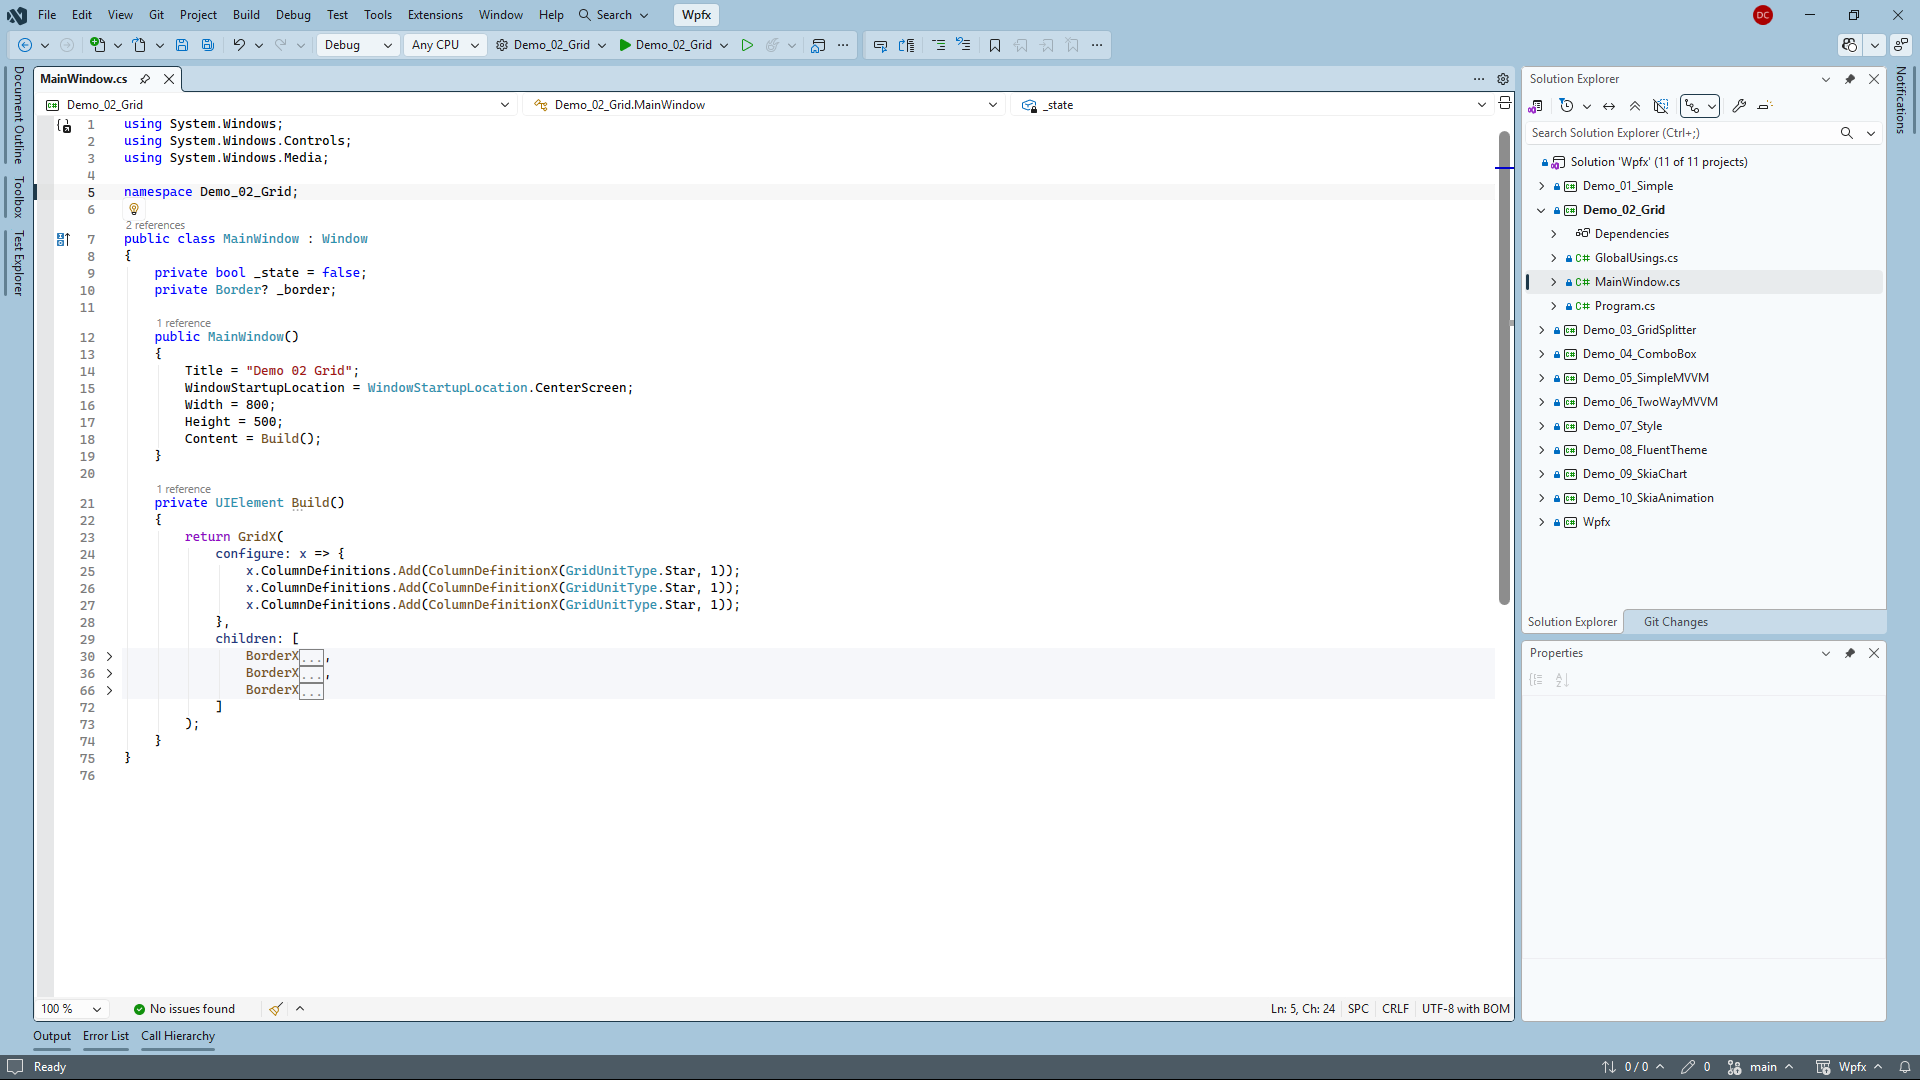
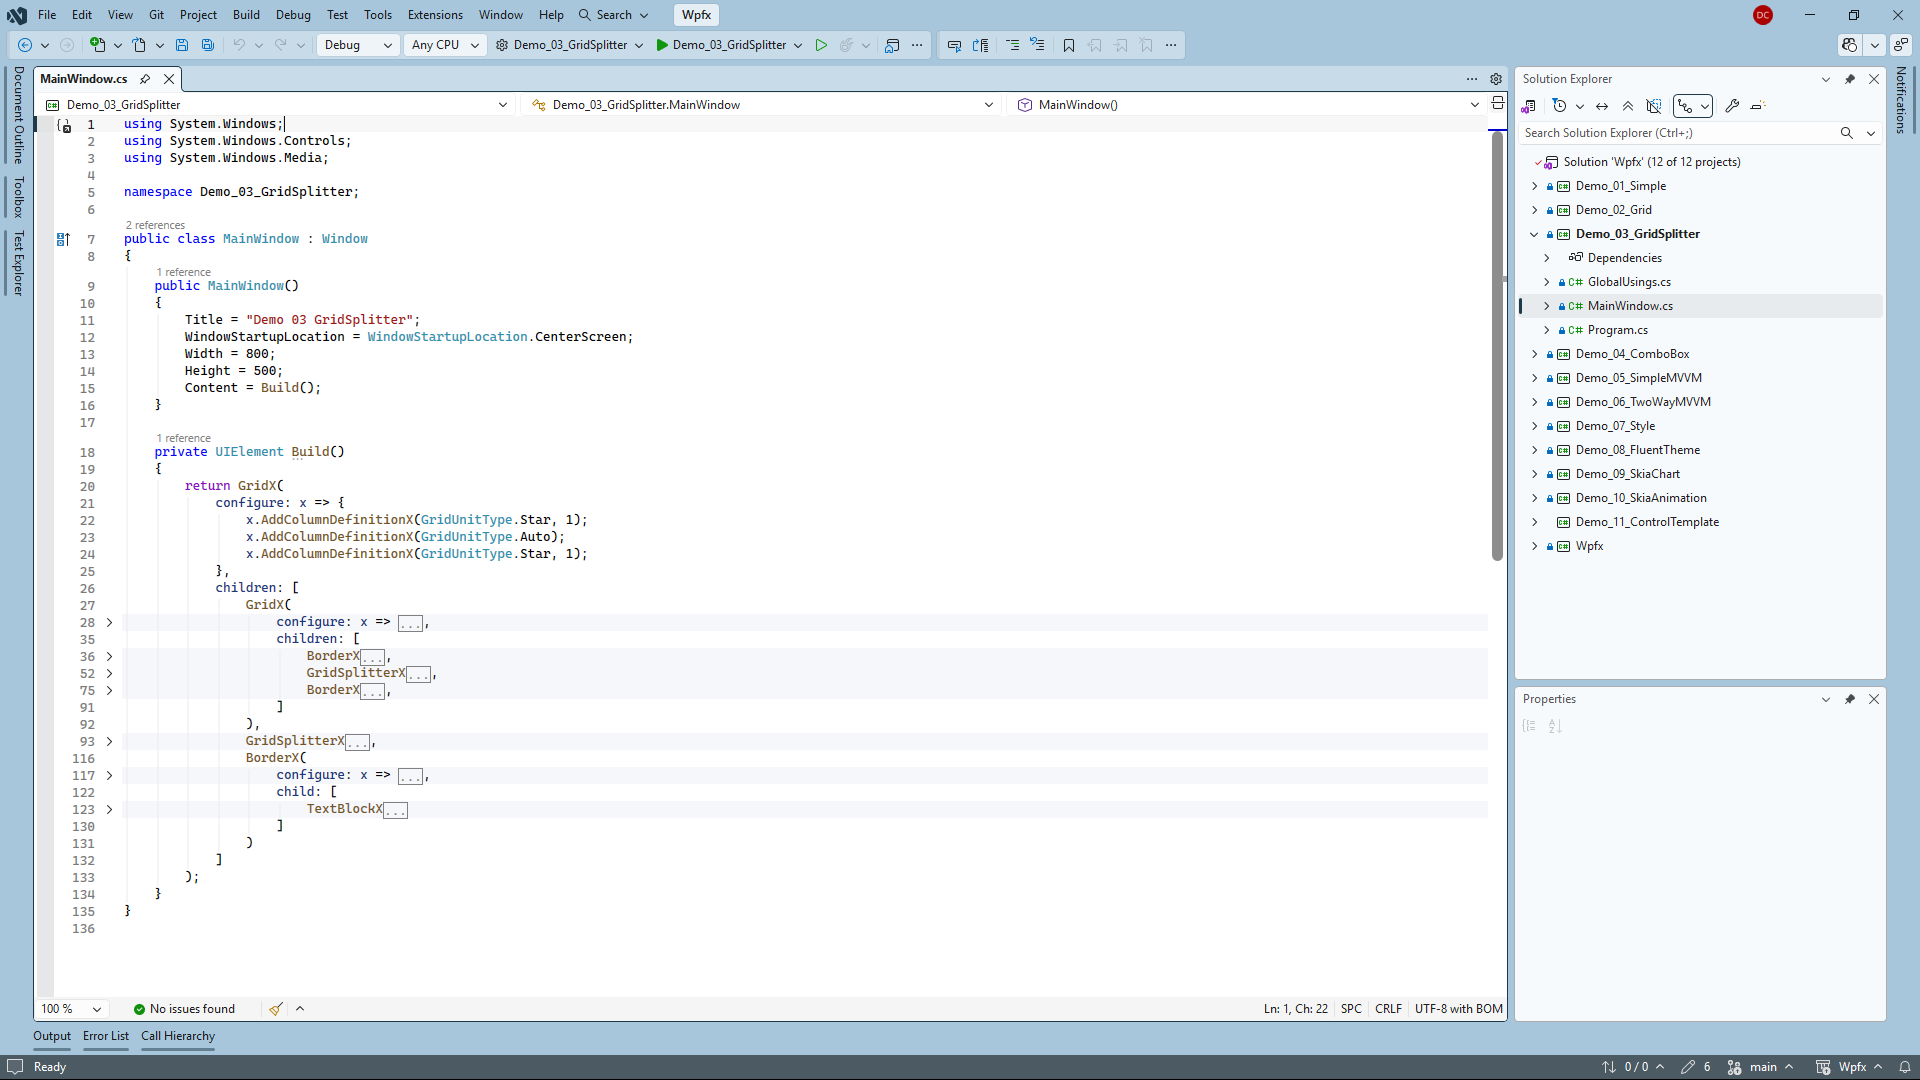
Add Demo 11 ControlTemplate App/Local, revise README image

diff --git a/Demo_11_ControlTemplate/MainWindow.cs b/Demo_11_ControlTemplate/MainWindow.cs
@@ -1,0 +1,143 @@
+using System.Windows;
+using System.Windows.Controls;
+using System.Windows.Input;
+using System.Windows.Media;
+
+namespace Demo_11_ControlTemplate;
+
+public class MainWindow : Window
+{
+    private int _count = 0;
+    private TextBlock? _txtInfo;
+
+    public MainWindow()
+    {
+        Title = "Demo 11 ControlTemplate";
+        WindowStartupLocation = WindowStartupLocation.CenterScreen;
+        Width = 800;
+        Height = 450;
+        Resources = BuildLocalResourceDictionary();
+        Content = Build();
+    }
+
+    public UIElement Build()
+    {
+        return StackPanelX(
+            children: [
+                ButtonX(
+                    configure: x => {
+                        x.Content = "Click me";
+                        x.Width = 120;
+                        x.Height = 40;
+                        x.Margin = ThicknessX(10);
+                        x.HorizontalAlignment = HorizontalAlignment.Left;
+                        x.Foreground = Brushes.Black;
+                        x.Background = BrushFromStringX("#88DDFF");                        
+                        x.BorderThickness = ThicknessX(0);
+
+                        if (TryFindResource("ButtonControlTemplate") is ControlTemplate template)
+                            x.Template = template;
+
+                        x.MouseEnter += (s,e) => {
+                            Mouse.OverrideCursor = Cursors.Hand;
+                        };
+
+                        x.MouseLeave += (s,e) => {
+                            Mouse.OverrideCursor = null;
+                        };
+
+                        x.Click += (s,e) => {
+                            _count++;
+                            _txtInfo?.Text = $"Count: {_count}";
+                        };
+                    }
+                ),
+                TextBlockX(
+                    configure: x => { 
+                        _txtInfo = x; 
+                        x.Text = "Count: 0"; 
+                        x.Margin = new Thickness(10); 
+                    }
+                ),
+                ButtonX(
+                    configure: x => {
+                        x.Content = "Click me too";
+                        x.Width = 120;
+                        x.Height = 40;
+                        x.Margin = ThicknessX(10);
+                        x.HorizontalAlignment = HorizontalAlignment.Left;
+                        x.Foreground = Brushes.Black;
+                        x.Background = BrushFromStringX("#88FFDD");
+                        x.BorderThickness = ThicknessX(0,0,0,2);
+
+                        if (TryFindResource("LocalButtonControlTemplate") is ControlTemplate template)
+                            x.Template = template;
+
+                        x.MouseEnter += (s,e) => {
+                            Mouse.OverrideCursor = Cursors.Hand;
+                        };
+
+                        x.MouseLeave += (s,e) => {
+                            Mouse.OverrideCursor = null;
+                        };
+
+                        x.Click += (s,e) => {
+                            _count++;
+                            _txtInfo?.Text = $"Count: {_count}";
+                        };
+                    }
+                ),
+            ]
+        );
+    }
+
+    public static ResourceDictionary BuildLocalResourceDictionary()
+    {
+        var template = ControlTemplateX<Button>(
+            visualTree: FrameworkElementFactoryX<Border>(
+                name: "PART_Border",
+                setters: [
+                    SetterX(Border.CornerRadiusProperty, CornerRadiusX(8)),
+                    SetterX(Border.SnapsToDevicePixelsProperty, true),
+                    // TemplateBindings map values from the templated control into the visual tree
+                    SetterX(Border.PaddingProperty, TemplateBindingX(Control.PaddingProperty)),
+                    SetterX(Border.BorderThicknessProperty, TemplateBindingX(Border.BorderThicknessProperty)),
+                    SetterX(Border.BorderBrushProperty, TemplateBindingX(Border.BorderBrushProperty)),
+                    SetterX(Border.BackgroundProperty, TemplateBindingX(Panel.BackgroundProperty)),
+                ],
+                children: [
+                    FrameworkElementFactoryX<ContentPresenter>(
+                        name: "PART_Presenter",
+                        setters: [
+                            SetterX(ContentPresenter.HorizontalAlignmentProperty, HorizontalAlignment.Center),
+                            SetterX(ContentPresenter.VerticalAlignmentProperty, VerticalAlignment.Center)
+                        ]
+                    )
+                ]
+            ),
+            triggers: [
+                TriggerX(
+                    property: UIElement.IsMouseOverProperty,
+                    value: true,
+                    setters: [
+                        SetterX(Border.BackgroundProperty, BrushFromStringX("#33aa80"), targetName: "PART_Border"),
+                        SetterX(Control.ForegroundProperty, Brushes.Black, targetName: "PART_Presenter")
+                    ]
+                ),
+                TriggerX(
+                    property: Button.IsPressedProperty,
+                    value: true,
+                    setters: [
+                        SetterX(Border.BackgroundProperty, BrushFromStringX("#116020"), targetName: "PART_Border"),
+                        SetterX(Control.ForegroundProperty, Brushes.White, targetName: "PART_Presenter")
+                    ]
+                )
+            ]
+        );
+
+        var resDict = new ResourceDictionary();
+        resDict.Add("LocalButtonControlTemplate", template);
+
+        return resDict;
+    }
+}

diff --git a/Demo_11_ControlTemplate/Program.cs b/Demo_11_ControlTemplate/Program.cs
@@ -1,0 +1,70 @@
+using System.Windows;
+using System.Windows.Controls;
+using System.Windows.Media;
+
+namespace Demo_11_ControlTemplate;
+
+public static class Program
+{
+    [STAThread]
+    public static void Main()
+    {
+        var app = new Application();
+
+        app.Resources = BuildAppResourceDictionary();
+
+        var win = new MainWindow();
+
+        app.Run(win);
+    }
+
+    public static ResourceDictionary BuildAppResourceDictionary()
+    {
+        var template = ControlTemplateX<Button>(
+            visualTree: FrameworkElementFactoryX<Border>(
+                name: "PART_Border",
+                setters: [
+                    SetterX(Border.CornerRadiusProperty, CornerRadiusX(4)),
+                    SetterX(Border.SnapsToDevicePixelsProperty, true),
+                    // TemplateBindings map values from the templated control into the visual tree
+                    SetterX(Border.PaddingProperty, TemplateBindingX(Control.PaddingProperty)),
+                    SetterX(Border.BorderThicknessProperty, TemplateBindingX(Border.BorderThicknessProperty)),
+                    SetterX(Border.BorderBrushProperty, TemplateBindingX(Border.BorderBrushProperty)),
+                    SetterX(Border.BackgroundProperty, TemplateBindingX(Panel.BackgroundProperty)),
+                ],
+                children: [
+                    FrameworkElementFactoryX<ContentPresenter>(
+                        name: "PART_Presenter",
+                        setters: [
+                            SetterX(ContentPresenter.HorizontalAlignmentProperty, HorizontalAlignment.Center),
+                            SetterX(ContentPresenter.VerticalAlignmentProperty, VerticalAlignment.Center)
+                        ]
+                    )
+                ]
+            ),
+            triggers: [
+                TriggerX(
+                    property: UIElement.IsMouseOverProperty, 
+                    value: true, 
+                    setters: [
+                        SetterX(Border.BackgroundProperty, BrushFromStringX("#66BBEE"), targetName: "PART_Border"),
+                        SetterX(Control.ForegroundProperty, Brushes.Black, targetName: "PART_Presenter")
+                    ]
+                ),
+                TriggerX(
+                    property: Button.IsPressedProperty, 
+                    value: true, 
+                    setters: [
+                        SetterX(Border.BackgroundProperty, Brushes.Black, targetName: "PART_Border"),                        
+                        SetterX(Control.ForegroundProperty, Brushes.White, targetName: "PART_Presenter")
+                    ]
+                )
+            ]
+        );
+
+        var resDict = new ResourceDictionary();
+        resDict.Add("ButtonControlTemplate", template);
+
+        return resDict;
+    }
+}

diff --git a/Wpfx/Wpfx.cs b/Wpfx/Wpfx.cs
@@ -171,6 +171,16 @@ public static class Wpfx
         return gridSplitter;
     }
 
+    public static CornerRadius CornerRadiusX(double uniformRadius)
+    {
+        return new CornerRadius(uniformRadius);
+    }
+
+    public static CornerRadius CornerRadiusX(double topLeft, double topRight, double bottomRight, double bottomLeft)
+    {
+        return new CornerRadius(topLeft, topRight, bottomRight, bottomLeft);
+    }
+
     public static Thickness ThicknessX(double length)
     {
         return new Thickness(length);
@@ -181,12 +191,13 @@ public static class Wpfx
         return new Thickness(left, top, right, bottom);
     }
 
-    public static Brush? BrushFromStringX(string str)
+    public static Brush BrushFromStringX(string str)
     {
-        var obj = ColorConverter.ConvertFromString(str);
-        if (obj is Color color)
-            return new SolidColorBrush(color);
-        return null;
+        Color color = (Color)ColorConverter.ConvertFromString(str);
+        Brush brush = new SolidColorBrush(color);
+        if (brush.CanFreeze) 
+            brush.Freeze();
+        return brush;
     }
 
     public static Binding BindingX(string path, Action<Binding>? configure = null)
@@ -194,6 +205,12 @@ public static class Wpfx
         var binding = new Binding(path);
         configure?.Invoke(binding);
         return binding;
+    }
+
+    // For use inside ControlTemplates
+    public static TemplateBindingExtension TemplateBindingX(DependencyProperty property)
+    {
+        return new TemplateBindingExtension(property);
     }
 
     //------------------------------------------------------------

diff --git a/Demo_11_ControlTemplate/GlobalUsings.cs b/Demo_11_ControlTemplate/GlobalUsings.cs
@@ -1,0 +1,1 @@
+global using static UserExtensions.Wpfx;
